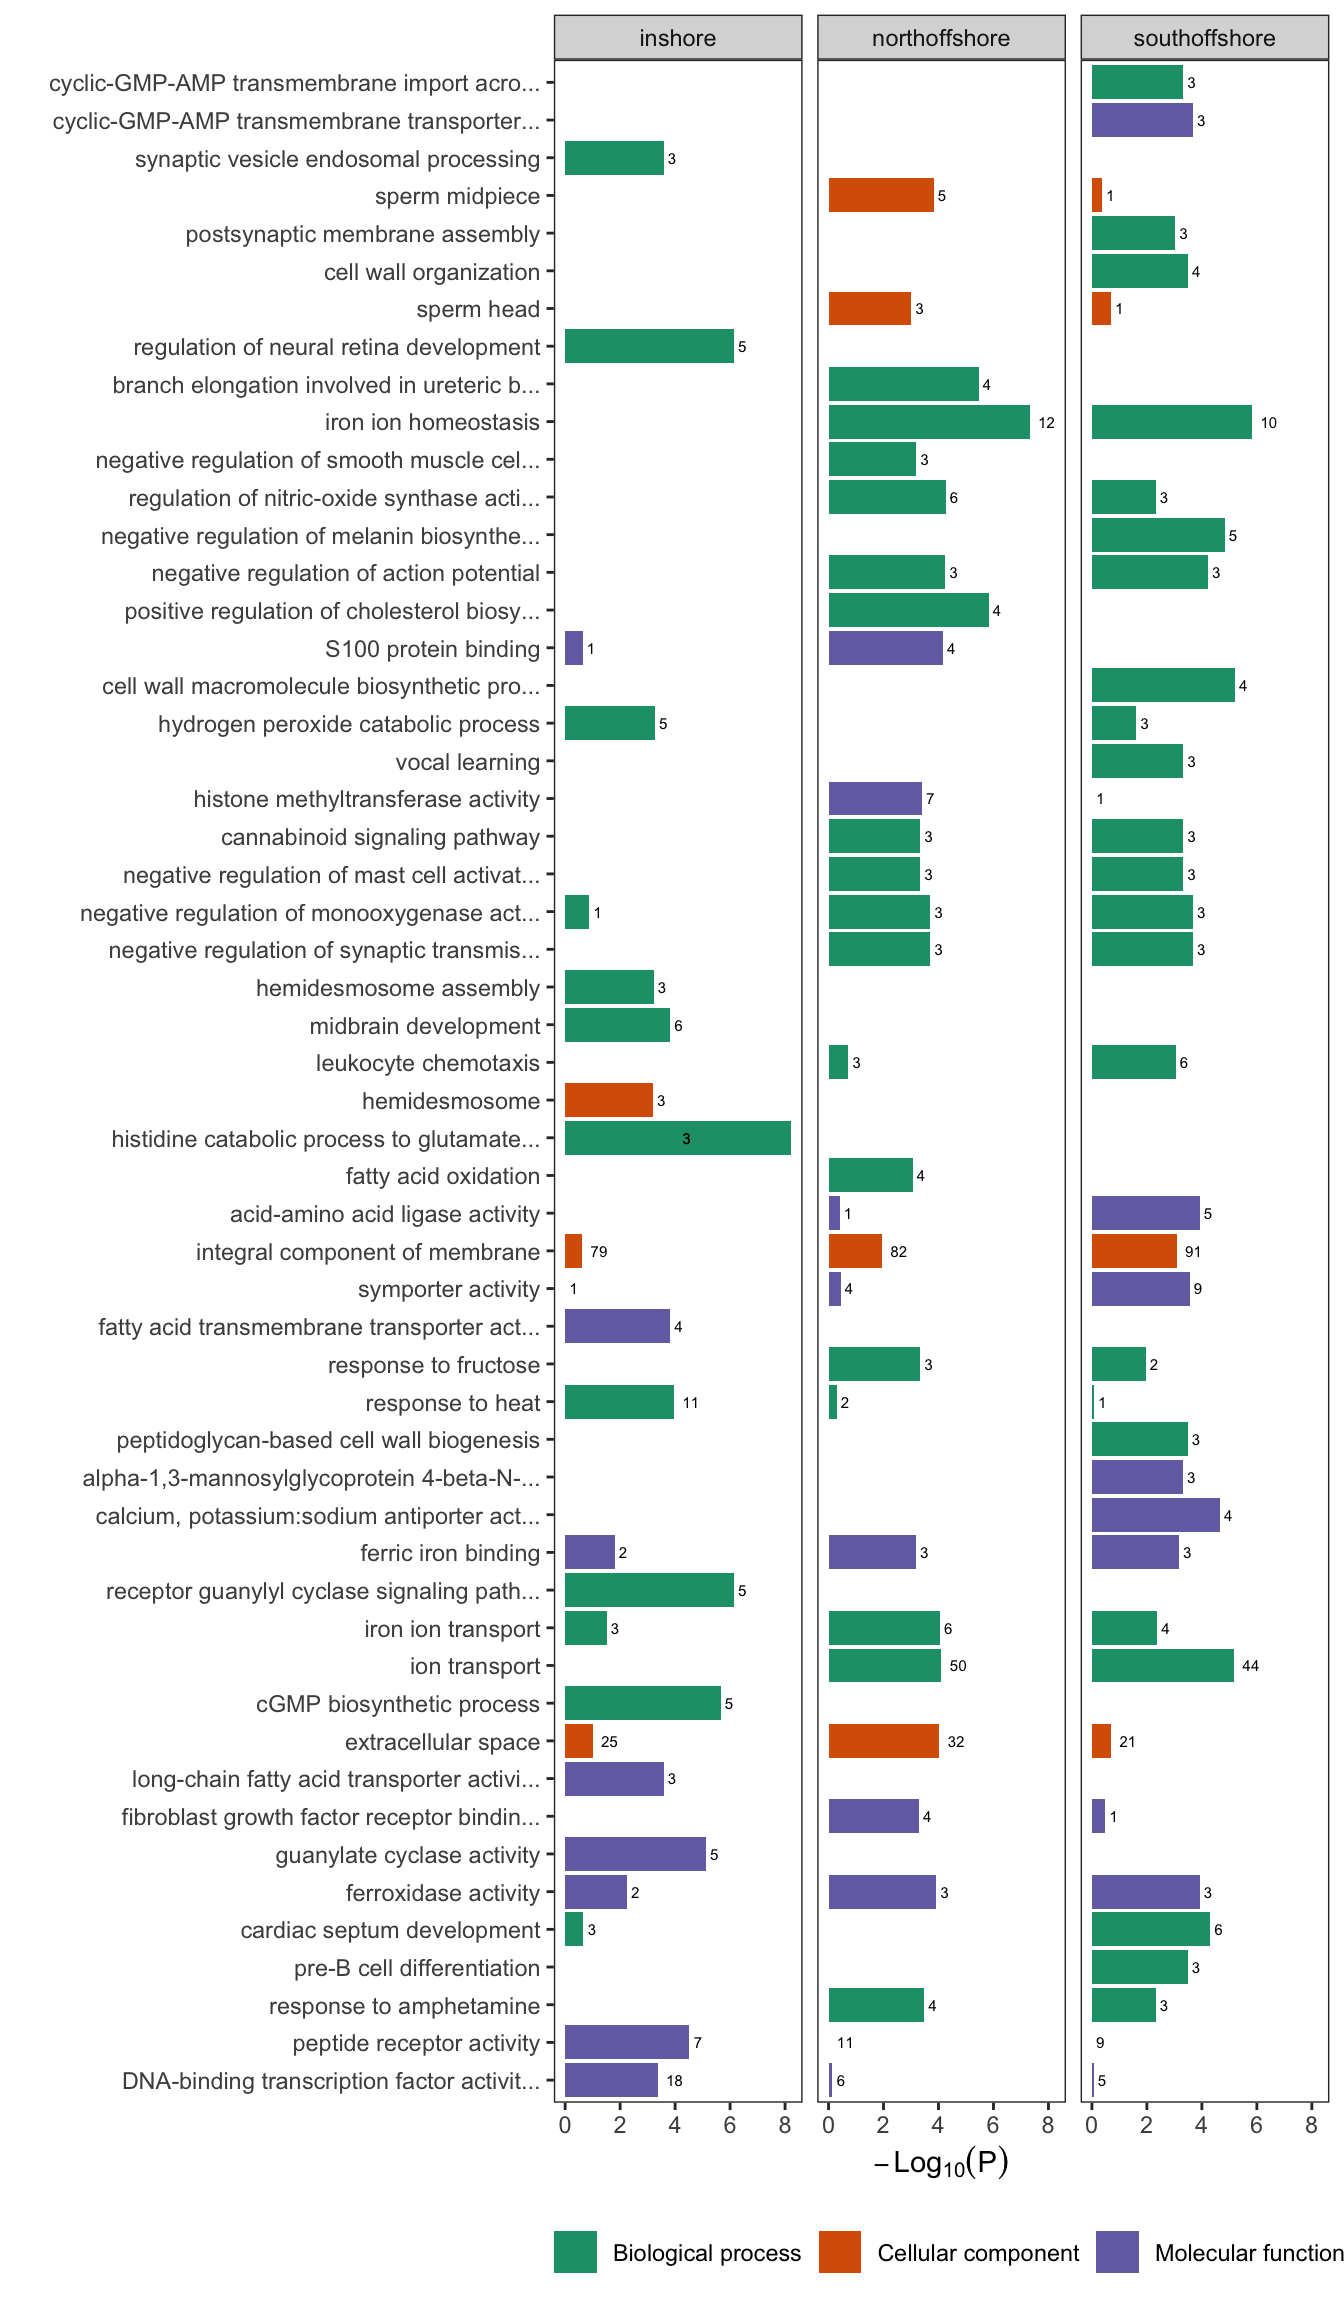
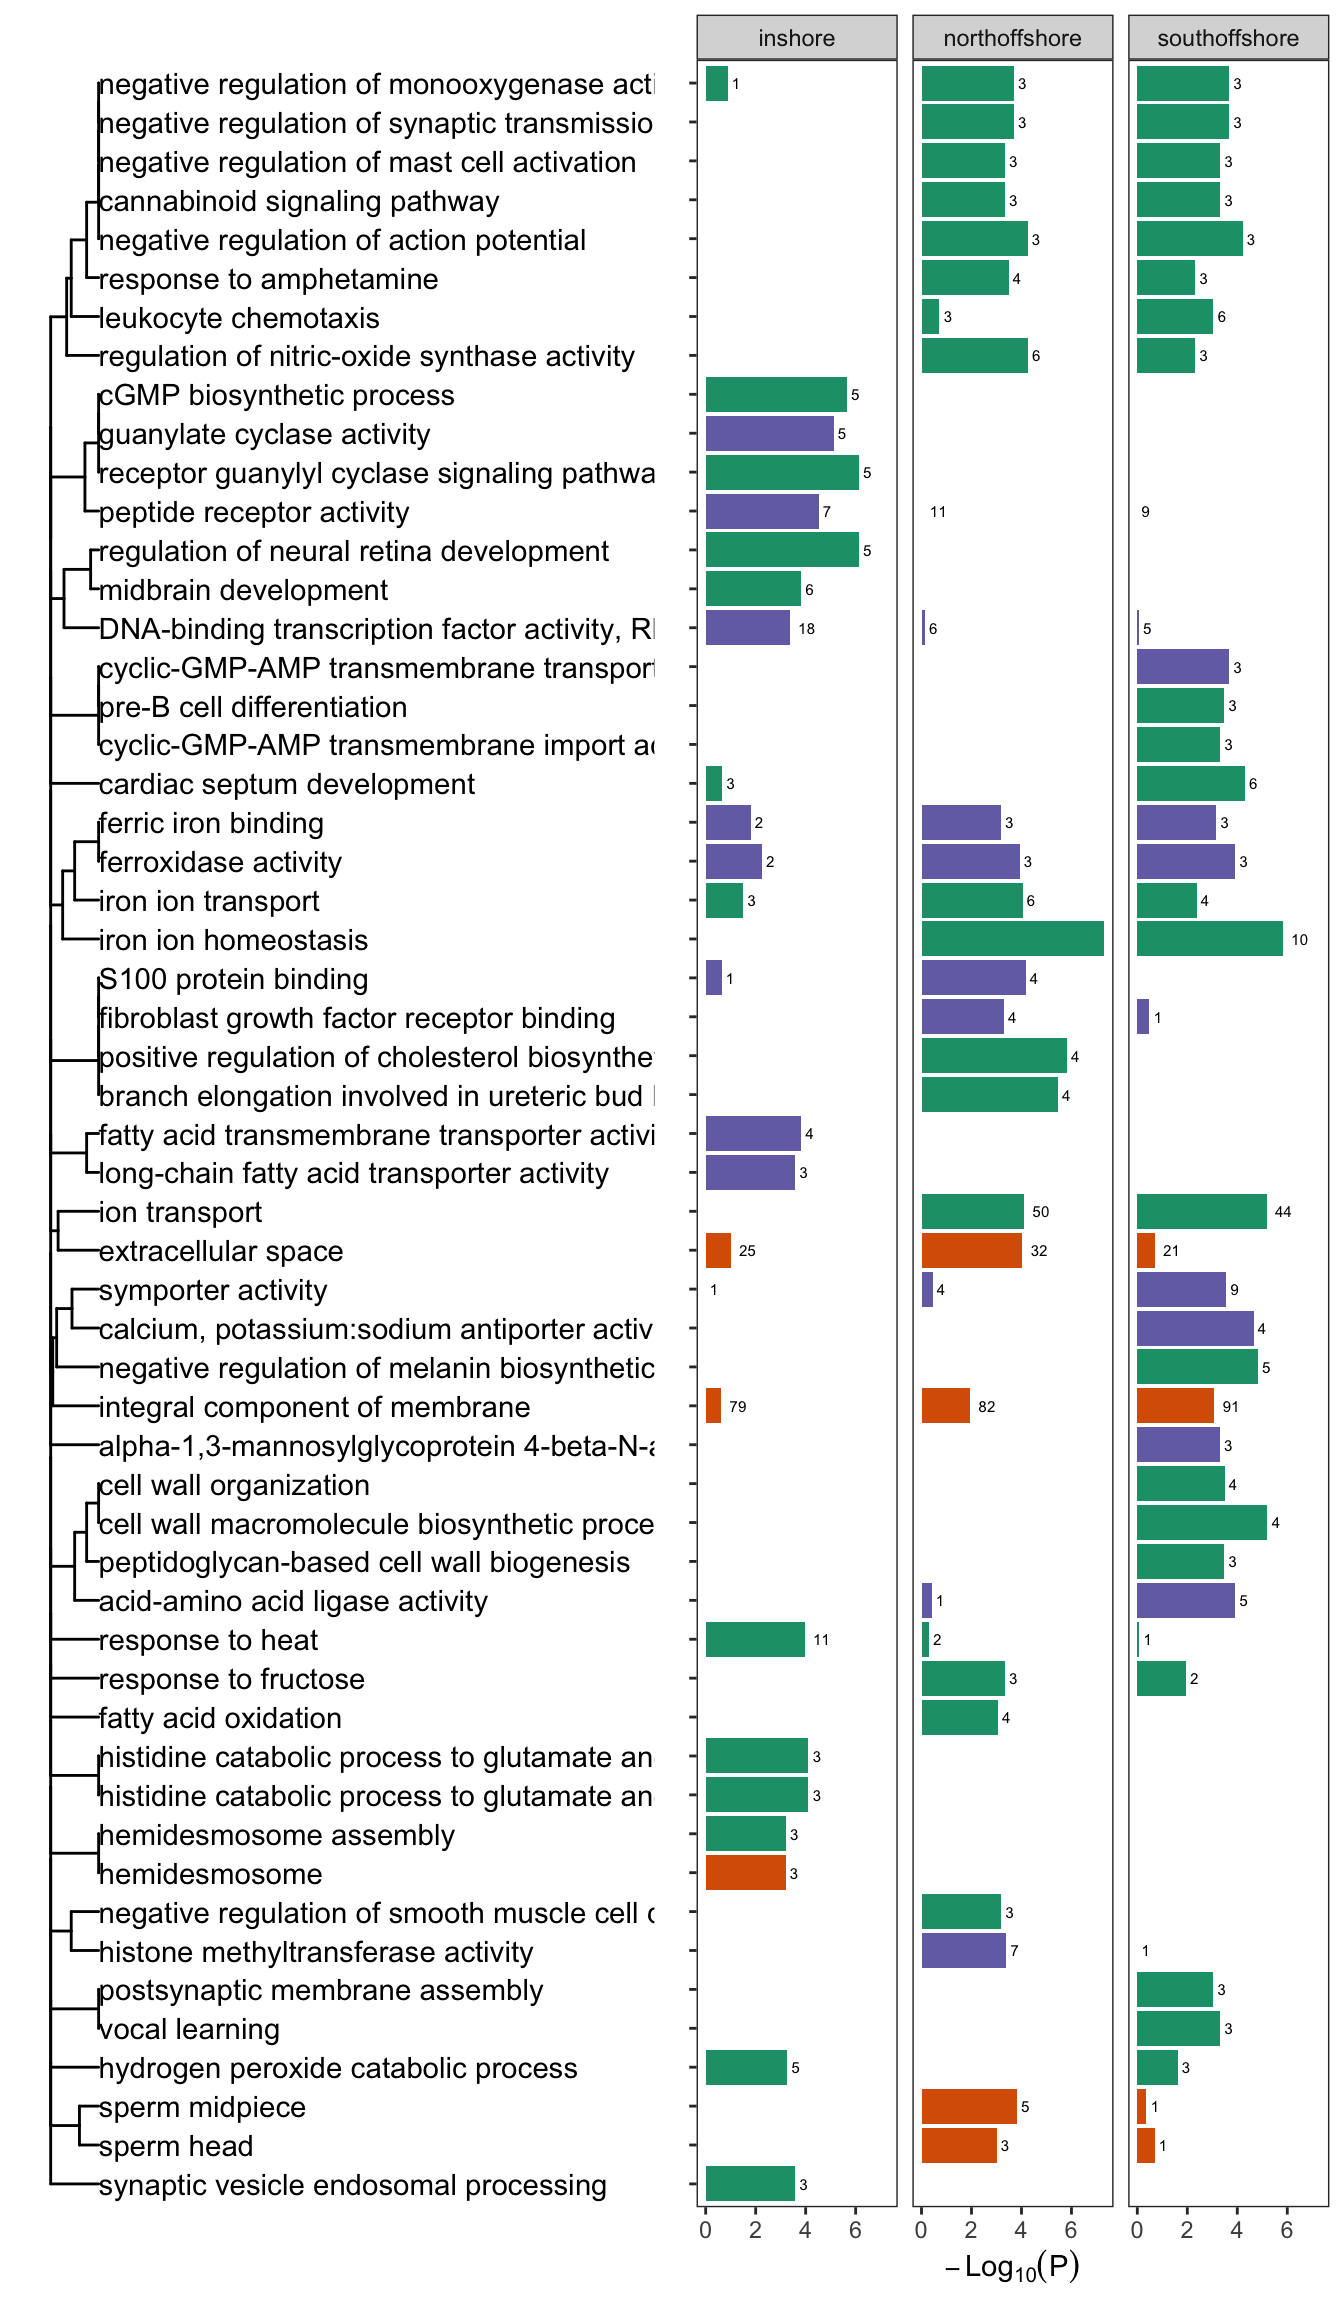
Add tree to GO enrichment plot

diff --git a/11.GO_enrichment.md b/11.GO_enrichment.md
@@ -36,9 +36,9 @@ of the locations. These are summarised in Figure 2.
 **Figure 2: Enriched GO terms for genes intersecting with candidate loci
 under selection**. Length of bars indicates significance (longer is more
 significant) and colour indicates the ontology. Numerical labels
-indicate the number of genes putatively under selection. Terms are
-clustered based on shared genes so that related terms (sharing common
-genes) are displayed together.
+indicate the number of genes putatively under selection. Dendrogram
+depicts relationships between GO terms based on numbers of shared
+annotated genes.
 
 Interestingly, we found the genes under selection in inshore were
 enriched in response to heat `GO:0009408` (Figure 2). This included a
